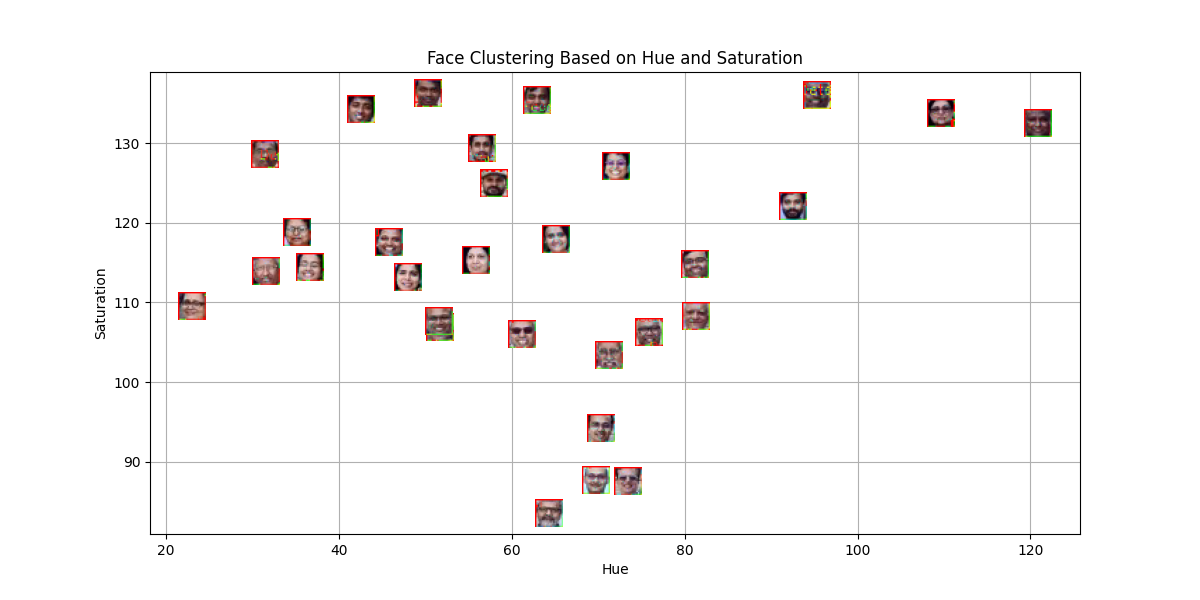
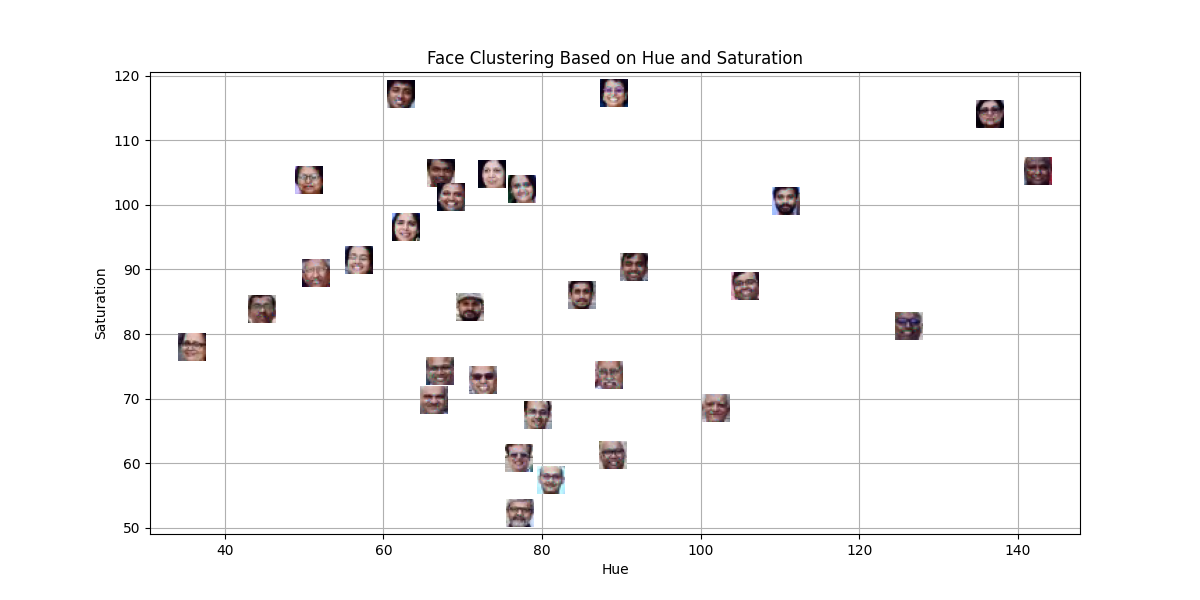
scatter plot done

diff --git a/main.py b/main.py
@@ -1,66 +1,57 @@
-import os
 import cv2
 import numpy as np
 import matplotlib.pyplot as plt
 from sklearn.cluster import KMeans
+from scipy.spatial import distance
 from matplotlib.offsetbox import OffsetImage, AnnotationBbox
-import wandb
 
-# === Step 1: WandB Setup ===
+# -------------------------------
+# Part 1: Face Detection on Plaksha_Faculty.jpg
+# -------------------------------
 
-wandb_api_key = os.getenv("WANDB_API_KEY")
-if wandb_api_key is None:
-    raise ValueError("WANDB_API_KEY environment variable not set.")
-
-
-wandb.login(key=wandb_api_key)
-
-# Initialize a WandB run with some configuration parameters
-wandb.init(project='distance_classification_project', config={
-    "n_clusters": 2,
-    "scaleFactor": 1.05,
-    "minNeighbors": 4,
-    "minSize": [25, 25],
-    "maxSize": [50, 50]
-})
-
-# === Step 2: Read and Process the Faculty Image ===
+# Read the image
 img = cv2.imread('Plaksha_Faculty.jpg')
 if img is None:
-    print("Error: Plaksha_Faculty.jpg not found")
+    print("Error: Plaksha_Faculty.jpg not found.")
     exit(1)
 
-# Convert to grayscale for face detection
+# Convert the image to grayscale
 gray_img = cv2.cvtColor(img, cv2.COLOR_BGR2GRAY)
 
-# Load the Haar cascade classifier 
+# Load the Haar cascade classifier file (ensure the XML file is in your folder)
 face_cascade = cv2.CascadeClassifier('haarcascade_frontalface_default.xml')
 
-# Detect faces (adjust parameters as needed)
-faces_rect = face_cascade.detectMultiScale(gray_img, 1.05, 4, minSize=(25, 25), maxSize=(50, 50))
+# Detect faces (parameters can be adjusted)
+faces_rect = face_cascade.detectMultiScale(gray_img, 1.05, 4, minSize=(25,25), maxSize=(50,50))
 
-# === Step 3: Annotate Detected Faces ===
+# Define text and font parameters for annotation
 text = "Face Detected"
 font = cv2.FONT_HERSHEY_SIMPLEX
 font_scale = 0.5
-font_color = (0, 0, 255)  # Red (in BGR)
-font_thickness = 1
+font_color = (0, 0, 255)  # Red in BGR
+font_thickness = 2
 
+# Draw rectangles and annotate each detected face
 for (x, y, w, h) in faces_rect:
-    cv2.rectangle(img, (x, y), (x + w, y + h), (0, 0, 255), 2)
+    cv2.rectangle(img, (x, y), (x+w, y+h), (0, 0, 255), 2)
     cv2.putText(img, text, (x, y - 10), font, font_scale, font_color, font_thickness)
 
-# Instead of displaying, save the annotated image
+# Save the annotated image
 annotated_image_filename = "faces_detected.jpg"
 cv2.imwrite(annotated_image_filename, img)
 print(f"Annotated image saved as {annotated_image_filename}")
 
-# === Step 4: Extract Hue-Saturation Features & Perform Clustering ===
-# Convert the image to HSV
-img_hsv = cv2.cvtColor(img, cv2.COLOR_BGR2HSV)
-hue_saturation = []
-face_images = []  # To store individual face images
+# -------------------------------
+# Part 2: Clustering Based on Hue and Saturation Features
+# -------------------------------
 
+# Re-read the original image for feature extraction (to avoid modifications)
+original_img = cv2.imread('Plaksha_Faculty.jpg')
+img_hsv = cv2.cvtColor(original_img, cv2.COLOR_BGR2HSV)
+hue_saturation = []
+face_images = []  # To store the face regions
+
+# Extract the mean hue and saturation values for each detected face
 for (x, y, w, h) in faces_rect:
     face = img_hsv[y:y+h, x:x+w]
     hue = np.mean(face[:, :, 0])
@@ -70,7 +61,7 @@ for (x, y, w, h) in faces_rect:
 
 hue_saturation = np.array(hue_saturation)
 
-# Perform k-Means clustering on the hue-saturation features
+# Perform k-Means clustering on the hue-saturation features (using 2 clusters)
 kmeans = KMeans(n_clusters=2, n_init=10).fit(hue_saturation)
 
 # Plot the clustered faces with custom markers using Matplotlib
@@ -86,19 +77,136 @@ plt.ylabel("Saturation")
 plt.title("Face Clustering Based on Hue and Saturation")
 plt.grid(True)
 
-# Save the clustering plot as an image
 clustering_plot_filename = "clustering_plot.png"
 plt.savefig(clustering_plot_filename)
 plt.close(fig)
 print(f"Clustering plot saved as {clustering_plot_filename}")
 
-# === Step 5: Log Outputs to WandB ===
-wandb.log({
-    "Detected Faces": len(faces_rect),
-    "Annotated Image": wandb.Image(annotated_image_filename),
-    "Clustering Plot": wandb.Image(clustering_plot_filename)
-})
+# -------------------------------
+# Part 3: Scatter Plot with Cluster Centroids
+# -------------------------------
 
-# Finish the WandB run
-wandb.finish()
+cluster_0_points = []
+cluster_1_points = []
+
+for i, (x, y, w, h) in enumerate(faces_rect):
+    if kmeans.labels_[i] == 0:
+        cluster_0_points.append((hue_saturation[i, 0], hue_saturation[i, 1]))
+    else:
+        cluster_1_points.append((hue_saturation[i, 0], hue_saturation[i, 1]))
+
+cluster_0_points = np.array(cluster_0_points)
+cluster_1_points = np.array(cluster_1_points)
+
+plt.scatter(cluster_0_points[:, 0], cluster_0_points[:, 1], color='green', label='Cluster 0')
+plt.scatter(cluster_1_points[:, 0], cluster_1_points[:, 1], color='blue', label='Cluster 1')
+
+centroid_0 = np.mean(cluster_0_points, axis=0)
+centroid_1 = np.mean(cluster_1_points, axis=0)
+
+plt.scatter(centroid_0[0], centroid_0[1], color='black', marker='x', s=100, label='Centroid 0')
+plt.scatter(centroid_1[0], centroid_1[1], color='black', marker='D', s=100, label='Centroid 1')
+
+plt.xlabel("Hue")
+plt.ylabel("Saturation")
+plt.title("Cluster Scatter Plot with Centroids")
+plt.legend()
+plt.grid(True)
+
+scatter_plot_filename = "cluster_scatter_plot.png"
+plt.savefig(scatter_plot_filename)
+plt.close()
+print(f"Cluster scatter plot saved as {scatter_plot_filename}")
+
+# -------------------------------
+# Part 4: Process the Template Image (Dr_Shashi_Tharoor.jpg)
+# -------------------------------
+
+template_img = cv2.imread('Dr_Shashi_Tharoor.jpg')
+if template_img is None:
+    print("Error: Dr_Shashi_Tharoor.jpg not found.")
+    exit(1)
+
+template_gray = cv2.cvtColor(template_img, cv2.COLOR_BGR2GRAY)
+template_faces = face_cascade.detectMultiScale(template_gray, 1.05, 4, minSize=(25,25), maxSize=(50,50))
+
+for (x, y, w, h) in template_faces:
+    cv2.rectangle(template_img, (x, y), (x+w, y+h), (0, 255, 0), 3)
+
+template_annotated_filename = "template_faces.jpg"
+cv2.imwrite(template_annotated_filename, template_img)
+print(f"Template image with detected face(s) saved as {template_annotated_filename}")
+
+template_hsv = cv2.cvtColor(template_img, cv2.COLOR_BGR2HSV)
+template_hue = np.mean(template_hsv[:, :, 0])
+template_saturation = np.mean(template_hsv[:, :, 1])
+template_label = kmeans.predict([[template_hue, template_saturation]])[0]
+
+# -------------------------------
+# Part 5: Visualize Template Image with Clusters
+# -------------------------------
+
+fig, ax = plt.subplots(figsize=(12, 6))
+for i, (x, y, w, h) in enumerate(faces_rect):
+    color = 'red' if kmeans.labels_[i] == 0 else 'blue'
+    im = OffsetImage(cv2.cvtColor(cv2.resize(face_images[i], (20, 20)), cv2.COLOR_HSV2RGB))
+    ab = AnnotationBbox(im, (hue_saturation[i, 0], hue_saturation[i, 1]), frameon=False, pad=0)
+    ax.add_artist(ab)
+    plt.plot(hue_saturation[i, 0], hue_saturation[i, 1], 'o', markersize=5, color=color)
+
+if template_label == 0:
+    color = 'red'
+else:
+    color = 'blue'
+im = OffsetImage(cv2.cvtColor(cv2.resize(template_img, (20, 20)), cv2.COLOR_BGR2RGB))
+ab = AnnotationBbox(im, (template_hue, template_saturation), frameon=False, pad=0)
+ax.add_artist(ab)
+
+plt.xlabel("Hue")
+plt.ylabel("Saturation")
+plt.title("Template Face and Cluster Visualization")
+plt.grid(True)
+
+template_cluster_plot_filename = "template_cluster_plot.png"
+plt.savefig(template_cluster_plot_filename)
+plt.close(fig)
+print(f"Template cluster plot saved as {template_cluster_plot_filename}")
+
+# -------------------------------
+# Part 6: Final Scatter Plot with Centroids and Template Marker
+# -------------------------------
+
+cluster_0_points = []
+cluster_1_points = []
+
+for i, (x, y, w, h) in enumerate(faces_rect):
+    if kmeans.labels_[i] == 0:
+        cluster_0_points.append((hue_saturation[i, 0], hue_saturation[i, 1]))
+    else:
+        cluster_1_points.append((hue_saturation[i, 0], hue_saturation[i, 1]))
+
+cluster_0_points = np.array(cluster_0_points)
+cluster_1_points = np.array(cluster_1_points)
+
+plt.scatter(cluster_0_points[:, 0], cluster_0_points[:, 1], color='green', label='Cluster 0')
+plt.scatter(cluster_1_points[:, 0], cluster_1_points[:, 1], color='blue', label='Cluster 1')
+
+centroid_0 = np.mean(cluster_0_points, axis=0)
+centroid_1 = np.mean(cluster_1_points, axis=0)
+
+plt.scatter(centroid_0[0], centroid_0[1], color='black', marker='x', s=100, label='Centroid 0')
+plt.scatter(centroid_1[0], centroid_1[1], color='black', marker='D', s=100, label='Centroid 1')
+
+plt.plot(template_hue, template_saturation, marker='o', color='violet', markersize=10, label='Template')
+
+plt.xlabel("Hue")
+plt.ylabel("Saturation")
+plt.title("Final Cluster Scatter Plot with Template")
+plt.legend()
+plt.grid(True)
+
+final_scatter_filename = "final_scatter_plot.png"
+plt.savefig(final_scatter_filename)
+plt.close()
+print(f"Final scatter plot saved as {final_scatter_filename}")
 
